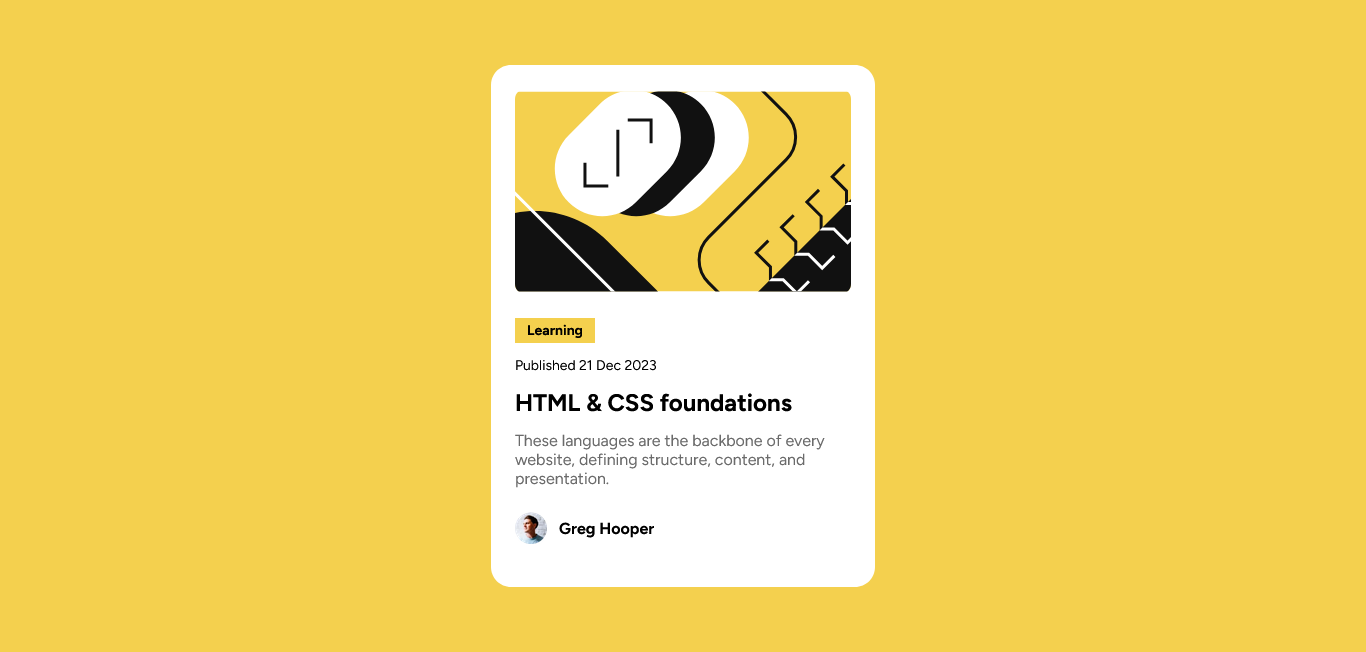
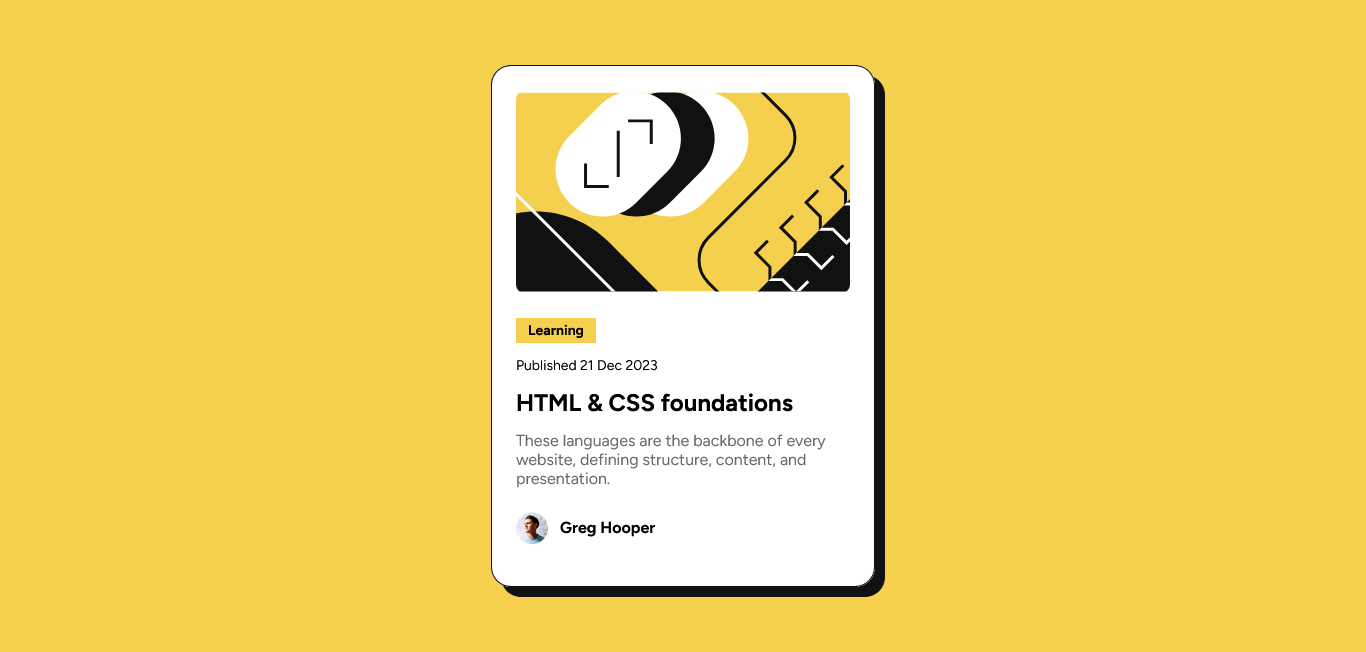
code factoring

diff --git a/style.css b/style.css
@@ -32,6 +32,8 @@ body {
     min-width: 327px;
     height: 522px;
     border-radius: 20px;
+    box-shadow: 10px 10px var(--black);
+    border: 1px solid var(--black);
 }
 
 /* Card */
